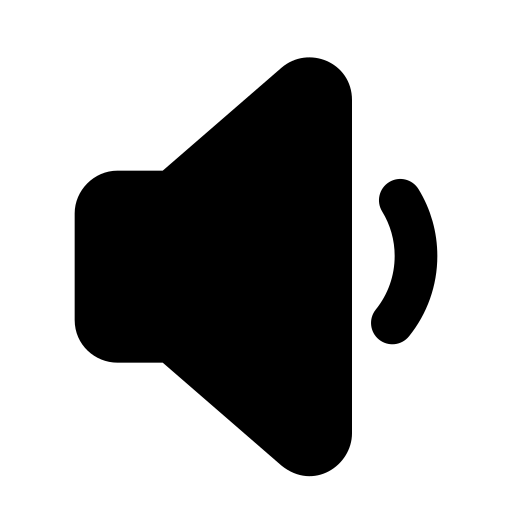
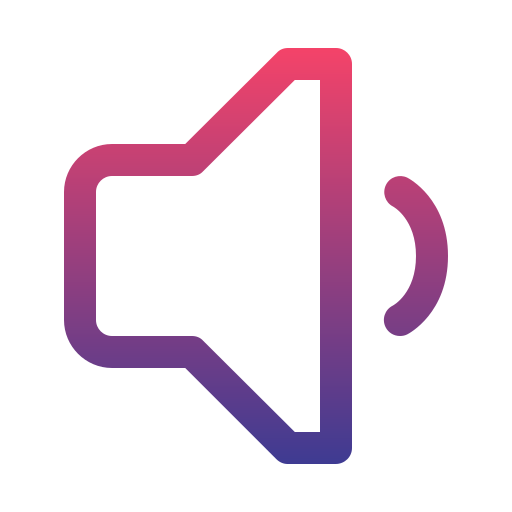
added dark theme
updated mute-unmute

diff --git a/main.py b/main.py
@@ -8,45 +8,44 @@ import sys
 
 
 class VideoWindow(QMainWindow):
-
     def __init__(self, parent=None):
         super(VideoWindow, self).__init__(parent)
-        self.setWindowTitle("Py Player")
-        self.setWindowIcon(QIcon('icons/xyz.png'))
-        # self.setStyleSheet("background-color: black;")
+        self.setWindowTitle("SMP")
+        self.setWindowIcon(QIcon("icons/musical-note.png"))
+        self.setStyleSheet("color: #EDEDED;" "background-color: #171717;")
         self.mediaPlayer = QMediaPlayer(None, QMediaPlayer.VideoSurface)
-
+        self.current_volume_level = 100
         videoWidget = QVideoWidget()
 
         self.widescreen = True
 
-        # Button for backward slider
+        # Button for rewind
         self.backButton = QPushButton()
         self.backButton.setEnabled(False)
-        self.backButton.setIcon(QIcon('icons/rewind.png'))
+        self.backButton.setIcon(QIcon("icons/rewind.png"))
         self.backButton.clicked.connect(self.backSlider10)
 
-        # Button for forward slider
+        # Button for fast forward
         self.forwardButton = QPushButton()
         self.forwardButton.setEnabled(False)
-        self.forwardButton.setIcon(QIcon('icons/forward.png'))
+        self.forwardButton.setIcon(QIcon("icons/forward.png"))
         self.forwardButton.clicked.connect(self.forwardSlider10)
 
         # Button for pause/play
         self.playButton = QPushButton()
         self.playButton.setEnabled(False)
-        self.playButton.setIcon(self.style().standardIcon(QStyle.SP_MediaPlay))
+        self.playButton.setIcon(QIcon("icons/play.png"))
         self.playButton.clicked.connect(self.play)
 
         # Time
-        self.lbl = QLineEdit('00:00:00')
+        self.lbl = QLineEdit("00:00:00")
         self.lbl.setReadOnly(True)
         self.lbl.setFixedWidth(70)
         self.lbl.setUpdatesEnabled(True)
         self.lbl.setStyleSheet(stylesheet(self))
         self.lbl.selectionChanged.connect(lambda: self.lbl.setSelection(0, 0))
 
-        self.elbl = QLineEdit('00:00:00')
+        self.elbl = QLineEdit("00:00:00")
         self.elbl.setReadOnly(True)
         self.elbl.setFixedWidth(70)
         self.elbl.setUpdatesEnabled(True)
@@ -64,56 +63,54 @@ class VideoWindow(QMainWindow):
         # Button for mute/ unmute
         self.volumeButton = QPushButton()
         self.volumeButton.setEnabled(False)
-        self.volumeButton.setIcon(QIcon('icons/volume-max.png'))
+        self.volumeButton.setIcon(QIcon("icons/high-volume.png"))
         self.volumeButton.clicked.connect(self.muteVolume)
-        self.volumeButton.setAttribute(Qt.WA_TranslucentBackground, True)
+        # self.volumeButton.setAttribute(Qt.WA_TranslucentBackground, True)
 
         self.errorLabel = QLabel()
         self.errorLabel.setSizePolicy(QSizePolicy.Preferred, QSizePolicy.Maximum)
 
         # Shortcut for media player
-        self.shortcut1 = QShortcut(QKeySequence('Space'), self)
+        self.shortcut1 = QShortcut(QKeySequence("Space"), self)
         self.shortcut1.activated.connect(self.play)
 
-        self.shortcut2 = QShortcut(QKeySequence('M'), self)
+        self.shortcut2 = QShortcut(QKeySequence("M"), self)
         self.shortcut2.activated.connect(self.muteVolume)
 
-        self.shortcut3 = QShortcut(QKeySequence('Up'), self)
+        self.shortcut3 = QShortcut(QKeySequence("Up"), self)
         self.shortcut3.activated.connect(self.volumeUp)
 
-        self.shortcut4 = QShortcut(QKeySequence('Down'), self)
+        self.shortcut4 = QShortcut(QKeySequence("Down"), self)
         self.shortcut4.activated.connect(self.volumeDown)
 
-        self.shortcut5 = QShortcut(QKeySequence('Right'), self)
+        self.shortcut5 = QShortcut(QKeySequence("Right"), self)
         self.shortcut5.activated.connect(self.forwardSlider10)
 
-        self.shortcut6 = QShortcut(QKeySequence('Left'), self)
+        self.shortcut6 = QShortcut(QKeySequence("Left"), self)
         self.shortcut6.activated.connect(self.backSlider10)
 
-        self.shortcut7 = QShortcut(QKeySequence('Enter'), self)
+        self.shortcut7 = QShortcut(QKeySequence("Enter"), self)
         self.shortcut7.activated.connect(self.fullScreen)
 
-        self.shortcut7 = QShortcut(QKeySequence('H'), self)
+        self.shortcut7 = QShortcut(QKeySequence("H"), self)
         self.shortcut7.activated.connect(self.toggleSlider)
 
         # Create new action
-        openAction = QAction(QIcon('icons/folder.png'), '&Open', self)
-        openAction.setShortcut('Ctrl+O')
-        openAction.setStatusTip('Open file')
+        openAction = QAction("&Open File...", self)
+        openAction.setShortcut("Ctrl+O")
         openAction.triggered.connect(self.openFile)
 
         # Create exit action
-        exitAction = QAction(QIcon('icons/close.png'), '&Exit', self)
-        exitAction.setShortcut('Ctrl+Q')
-        exitAction.setStatusTip('Exit application')
+        exitAction = QAction("&Exit", self)
+        exitAction.setShortcut("Ctrl+X")
         exitAction.triggered.connect(self.exitCall)
 
         # Create menu bar and add action
         menuBar = self.menuBar()
-        fileMenu = menuBar.addMenu('&File')
+        fileMenu = menuBar.addMenu("&File")
         fileMenu.addAction(openAction)
         fileMenu.addAction(exitAction)
-        fileMenu.setStyleSheet("background-color: white;")
+        fileMenu.setStyleSheet(stylesheet(self))
 
         # Create a widget for window contents
         wid = QWidget(self)
@@ -145,10 +142,9 @@ class VideoWindow(QMainWindow):
         self.mediaPlayer.error.connect(self.handleError)
 
     def openFile(self):
-        fileName, _ = QFileDialog.getOpenFileName(self, "Open Movie",
-                                                  QDir.homePath())
+        fileName, _ = QFileDialog.getOpenFileName(self, "Open Movie", QDir.homePath())
 
-        if fileName != '':
+        if fileName != "":
             self.mediaPlayer.setMedia(QMediaContent(QUrl.fromLocalFile(fileName)))
             self.playButton.setEnabled(True)
             self.backButton.setEnabled(True)
@@ -167,9 +163,9 @@ class VideoWindow(QMainWindow):
 
     def mediaStateChanged(self, state):
         if self.mediaPlayer.state() == QMediaPlayer.PlayingState:
-            self.playButton.setIcon(self.style().standardIcon(QStyle.SP_MediaPause))
+            self.playButton.setIcon(QIcon("icons/pause.png"))
         else:
-            self.playButton.setIcon(self.style().standardIcon(QStyle.SP_MediaPlay))
+            self.playButton.setIcon(QIcon("icons/play.png"))
 
     def positionChanged(self, position):
         self.positionSlider.setValue(position)
@@ -193,41 +189,41 @@ class VideoWindow(QMainWindow):
         self.mediaPlayer.setPosition(self.mediaPlayer.position() - 10000)
 
     def volumeAdjust(self):
-        value = self.mediaPlayer.volume()
+        vol = self.mediaPlayer.volume()
 
-        if value == 0:
-            self.volumeButton.setIcon(QIcon('icons/volume-mute.png'))
+        if vol >= 90:
+            self.volumeButton.setIcon(QIcon("icons/high-volume.png"))
 
-        elif 0 < value <= 30:
-            self.volumeButton.setIcon(QIcon('icons/low-volume.png'))
-
-        elif 30 < value <= 80:
-            self.volumeButton.setIcon(QIcon('icons/medium-volume.png'))
+        elif vol > 0:
+            self.volumeButton.setIcon(QIcon("icons/low-volume.png"))
 
         else:
-            self.volumeButton.setIcon(QIcon('icons/volume-max.png'))
+            self.volumeButton.setIcon(QIcon("icons/mute.png"))
 
     def volumeUp(self):
         self.mediaPlayer.setVolume(self.mediaPlayer.volume() + 10)
+        self.current_volume_level = self.mediaPlayer.volume()
         self.volumeAdjust()
 
     def volumeDown(self):
         self.mediaPlayer.setVolume(self.mediaPlayer.volume() - 10)
+        self.current_volume_level = self.mediaPlayer.volume()
         self.volumeAdjust()
 
-    def getCurrentVolume(self):
-        return self.mediaPlayer.volume()
+    # def getCurrentVolume(self):
+    #     return self.mediaPlayer.volume()
 
     def muteVolume(self):
-        if self.getCurrentVolume() != 0:
+        if self.mediaPlayer.volume() > 0:
+            self.current_volume_level = self.mediaPlayer.volume()
             self.mediaPlayer.setVolume(0)
-            self.volumeButton.setIcon(QIcon('icons/volume-mute.png'))
+            self.volumeButton.setIcon(QIcon("icons/mute.png"))
         else:
-            self.mediaPlayer.setVolume(100)
-            self.volumeButton.setIcon(QIcon('icons/volume-max.png'))
+            self.mediaPlayer.setVolume(self.current_volume_level)
+            self.volumeButton.setIcon(QIcon("icons/high-volume.png"))
 
     def fullScreen(self):
-        if self.windowState() & Qt.WindowFullScreen:
+        if self.windowState() == Qt.WindowFullScreen:
             QApplication.setOverrideCursor(Qt.ArrowCursor)
             self.showNormal()
         else:
@@ -274,7 +270,9 @@ class VideoWindow(QMainWindow):
 
     def menuRequested(self, point):
         menu = QMenu()
-        actionFull = menu.addAction(QIcon.fromTheme("view-fullscreen"), "Fullscreen (f)")
+        actionFull = menu.addAction(
+            QIcon.fromTheme("view-fullscreen"), "Fullscreen (f)"
+        )
 
         actionFull.triggered.connect(self.fullScreen)
 
@@ -287,52 +285,67 @@ class VideoWindow(QMainWindow):
 
 def stylesheet(self):
     return """
-QSlider::handle:horizontal 
-{
-background: transparent;
-width: 8px;
+QSlider::handle:horizontal {
+  background: #444444;
+  width: 8px;
 }
+
 QSlider::groove:horizontal {
-border: 1px solid #444444;
-height: 8px;
-     background: qlineargradient(y1: 0, y2: 1,
-                                 stop: 0 #2e3436, stop: 1.0 #000000);
+  border: 1px solid #444444;
+  height: 8px;
+  background: qlineargradient(y1: 0, y2: 1, stop: 0 #2e3436, stop: 1.0 #000000);
 }
+
 QSlider::sub-page:horizontal {
-background: qlineargradient( y1: 0, y2: 1,
-    stop: 0 #729fcf, stop: 1 #2a82da);
-border: 1px solid #777;
-height: 8px;
+  background: qlineargradient( y1: 0, y2: 1, stop: 0 #729fcf, stop: 1 #2a82da);
+  border: 1px solid #777;
+  height: 8px;
 }
+
 QSlider::handle:horizontal:hover {
-background: #2a82da;
-height: 8px;
-width: 18px;
-border: 1px solid #2e3436;
+  background: #2a82da;
+  height: 8px;
+  width: 18px;
+  border: 1px solid #2e3436;
 }
+
 QSlider::sub-page:horizontal:disabled {
-background: #bbbbbb;
-border-color: #999999;
+  background: #bbbbbb;
+  border-color: #999999;
 }
+
 QSlider::add-page:horizontal:disabled {
-background: #2a82da;
-border-color: #999999;
+  background: #2a82da;
+  border-color: #999999;
 }
+
 QSlider::handle:horizontal:disabled {
-background: #2a82da;
+  background: #2a82da;
 }
-QLineEdit
-{
-color: #585858;
-border: 0px solid #076100;
-font-size: 8pt;
+QLineEdit {
+  color: #585858;
+  border: 0px solid #076100;
+  font-size: 8pt;
+}
+
+QMenu {
+  border: 1px solid #444444;
+  margin: 0;
+}
+
+QMenu::item {
+  padding: 2px 25px 2px 20px;
+}
+
+QMenu::item:selected {
+  background-color: #444444;
 }
 """
 
 
-if __name__ == '__main__':
+if __name__ == "__main__":
     app = QApplication(sys.argv)
     player = VideoWindow()
-    player.resize(1200, 800)
+    player.setMinimumSize(1280, 720)
     player.show()
-    sys.exit(app.exec_())
+    app.exec()
